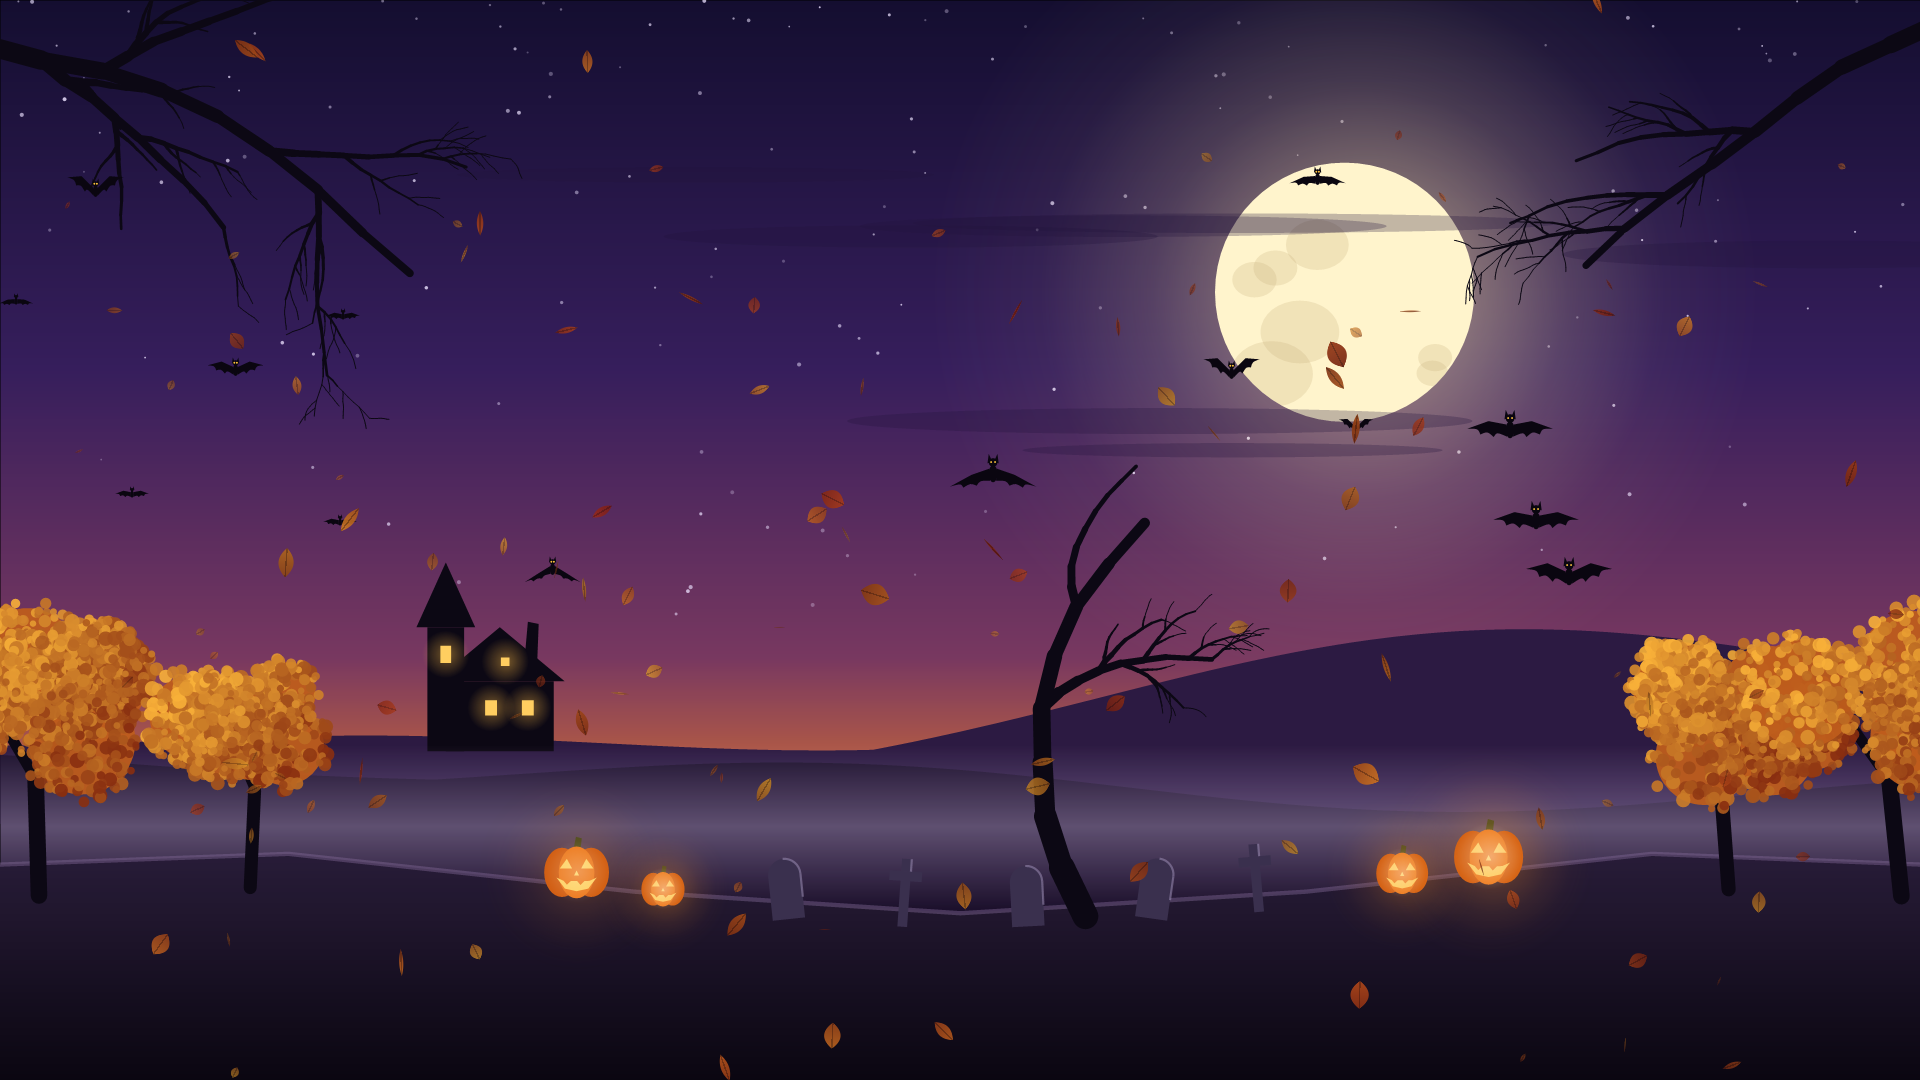
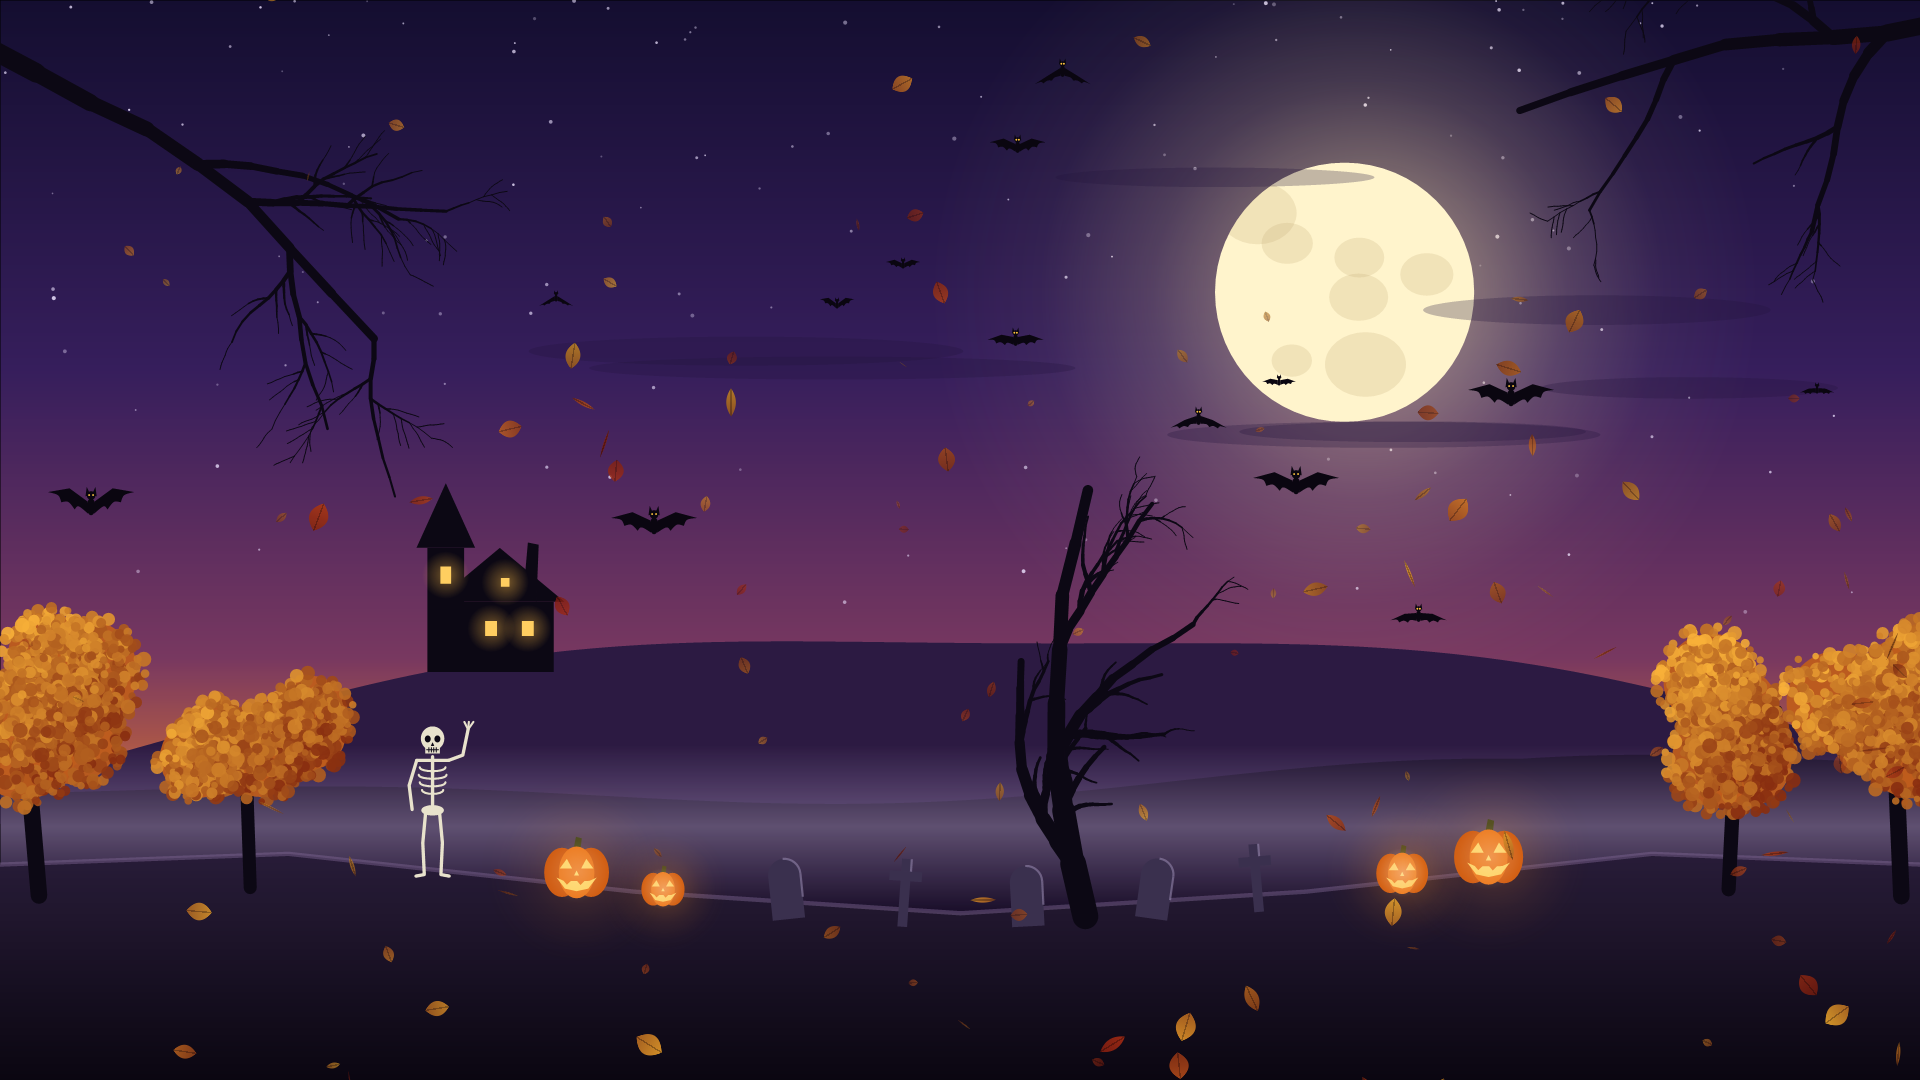
Add a waving skeleton to the Halloween foreground
Painted into the backdrop, standing on the ground between the autumn
trees and the jack-o'-lanterns. Checked at 16:9 and 9:16; verify.ps1
-WindowsLaunch passes.

diff --git a/src/Halloween/HalloweenPainter.cs b/src/Halloween/HalloweenPainter.cs
@@ -17,8 +17,8 @@ internal sealed class HalloweenScenery
 /// Paints the backdrop: a purple night sky with a big full moon and a few
 /// streaks of cloud, two ranges of dark hills with a haunted house on the far
 /// one, a band of mist, a graveyard hill with tombstones, a dead tree, autumn
-/// trees in orange leaf, jack-o'-lanterns, and bare branches clawing in from
-/// the top corners.
+/// trees in orange leaf, jack-o'-lanterns, a waving skeleton, and bare
+/// branches clawing in from the top corners.
 ///
 /// Like the Sakura painters, this runs ONCE at startup (the scenery never
 /// moves) and paints back to front: whatever is farthest away goes down
@@ -77,6 +77,8 @@ internal static class HalloweenPainter
         (float X, float R)[] patch = [(0.30f, 0.030f), (0.345f, 0.020f), (0.73f, 0.024f), (0.775f, 0.032f)];
         foreach (var p in patch)
             pumpkins.Add(PaintPumpkin(g, w * p.X, ground.YAt(w * p.X) + u * 0.012f, u * p.R));
+
+        PaintSkeleton(g, w * 0.225f, ground.YAt(w * 0.225f) + u * 0.006f, u * 0.14f);
 
         PaintCornerBranches(g, w, h, u, rng);
 
@@ -357,6 +359,58 @@ internal static class HalloweenPainter
             P(0.36f, 0.50f), P(0f, 0.58f), P(-0.36f, 0.50f)]);
 
         return (new PointF(x, cy), r);
+    }
+
+    /// <summary>
+    /// A skeleton standing on the ground at (x, footY), "tall" pixels high,
+    /// waving one arm. It is a stick figure drawn in bone color: every bone
+    /// is one thick line with rounded ends, plus a skull, a rib cage of four
+    /// U-shaped curves, and a pelvis.
+    ///
+    /// Every point below is (across, up) from the spot between its feet, as
+    /// a fraction of its height, so 0.9 up is the middle of the skull. The
+    /// little helper P turns those into real pixels. That keeps the whole
+    /// figure in proportion at any size.
+    /// </summary>
+    private static void PaintSkeleton(Graphics g, float x, float footY, float tall)
+    {
+        PointF P(float across, float up) => new(x + tall * across, footY - tall * up);
+        Color boneColor = Color.FromArgb(232, 226, 204);
+        using var bone = new Pen(boneColor, Math.Max(1.5f, tall * 0.022f)) { StartCap = LineCap.Round, EndCap = LineCap.Round, LineJoin = LineJoin.Round };
+        using var thin = new Pen(boneColor, Math.Max(1f, tall * 0.014f)) { StartCap = LineCap.Round, EndCap = LineCap.Round };
+        using var fill = new SolidBrush(boneColor);
+        using var hollow = new SolidBrush(Ink);
+
+        // Legs: hip, knee, ankle, then a short foot pointing outward.
+        foreach (int side in (int[])[-1, 1])
+            g.DrawLines(bone, [P(side * 0.045f, 0.43f), P(side * 0.065f, 0.22f), P(side * 0.055f, 0.01f), P(side * 0.11f, 0f)]);
+
+        // Pelvis, spine, collar bones.
+        g.FillEllipse(fill, x - tall * 0.075f, footY - tall * 0.47f, tall * 0.15f, tall * 0.07f);
+        g.DrawLine(bone, P(0, 0.44f), P(0, 0.79f));
+        g.DrawLine(bone, P(-0.105f, 0.765f), P(0.105f, 0.765f));
+
+        // Ribs: four U shapes hanging from the spine, narrower toward the waist.
+        (float Up, float HalfWidth)[] ribs = [(0.72f, 0.085f), (0.67f, 0.092f), (0.62f, 0.085f), (0.57f, 0.07f)];
+        foreach (var r in ribs)
+            g.DrawBezier(thin, P(-r.HalfWidth, r.Up), P(-r.HalfWidth, r.Up - 0.035f), P(r.HalfWidth, r.Up - 0.035f), P(r.HalfWidth, r.Up));
+
+        // Arms: the left one hangs, the right one is raised in a wave.
+        g.DrawLines(bone, [P(-0.105f, 0.765f), P(-0.155f, 0.60f), P(-0.135f, 0.44f)]);
+        g.DrawLines(bone, [P(0.105f, 0.765f), P(0.20f, 0.80f), P(0.235f, 0.97f)]);
+        foreach (float finger in (float[])[-0.03f, 0f, 0.03f])       // three spread fingers on the waving hand
+            g.DrawLine(thin, P(0.235f, 0.97f), P(0.24f + finger, 1.02f));
+
+        // Skull: a round top, a narrower jaw, then the dark hollows that make it a face.
+        g.FillEllipse(fill, x - tall * 0.078f, footY - tall * 0.99f, tall * 0.156f, tall * 0.16f);
+        g.FillRectangle(fill, x - tall * 0.048f, footY - tall * 0.86f, tall * 0.096f, tall * 0.05f);
+        g.FillEllipse(hollow, x - tall * 0.052f, footY - tall * 0.93f, tall * 0.04f, tall * 0.046f);   // left eye socket
+        g.FillEllipse(hollow, x + tall * 0.012f, footY - tall * 0.93f, tall * 0.04f, tall * 0.046f);   // right eye socket
+        g.FillPolygon(hollow, [P(0, 0.885f), P(-0.012f, 0.86f), P(0.012f, 0.86f)]);                    // nose
+        using var gap = new Pen(Ink, Math.Max(1f, tall * 0.008f));
+        g.DrawLine(gap, P(-0.04f, 0.835f), P(0.04f, 0.835f));                                           // the line between the teeth
+        foreach (float tooth in (float[])[-0.024f, -0.008f, 0.008f, 0.024f])
+            g.DrawLine(gap, P(tooth, 0.85f), P(tooth, 0.82f));
     }
 
     /// <summary>Bare branches reaching in from the top corners, like fingers. The sakura branches with the flowers switched off.</summary>

diff --git a/README.md b/README.md
@@ -47,8 +47,8 @@ blossoms, branches) in the Core project, so they have the same illustrative hand
 ## Halloween
 
 Autumn leaves in gold and red drifting down over a moonlit graveyard hill: a big full moon, a
-haunted house with lit windows on the far hill, a dead tree, tombstones, autumn trees, and bare
-branches clawing in from the top corners.
+haunted house with lit windows on the far hill, a dead tree, tombstones, a waving skeleton, autumn
+trees, and bare branches clawing in from the top corners.
 
 ![Halloween](docs/images/halloween.png)
 
